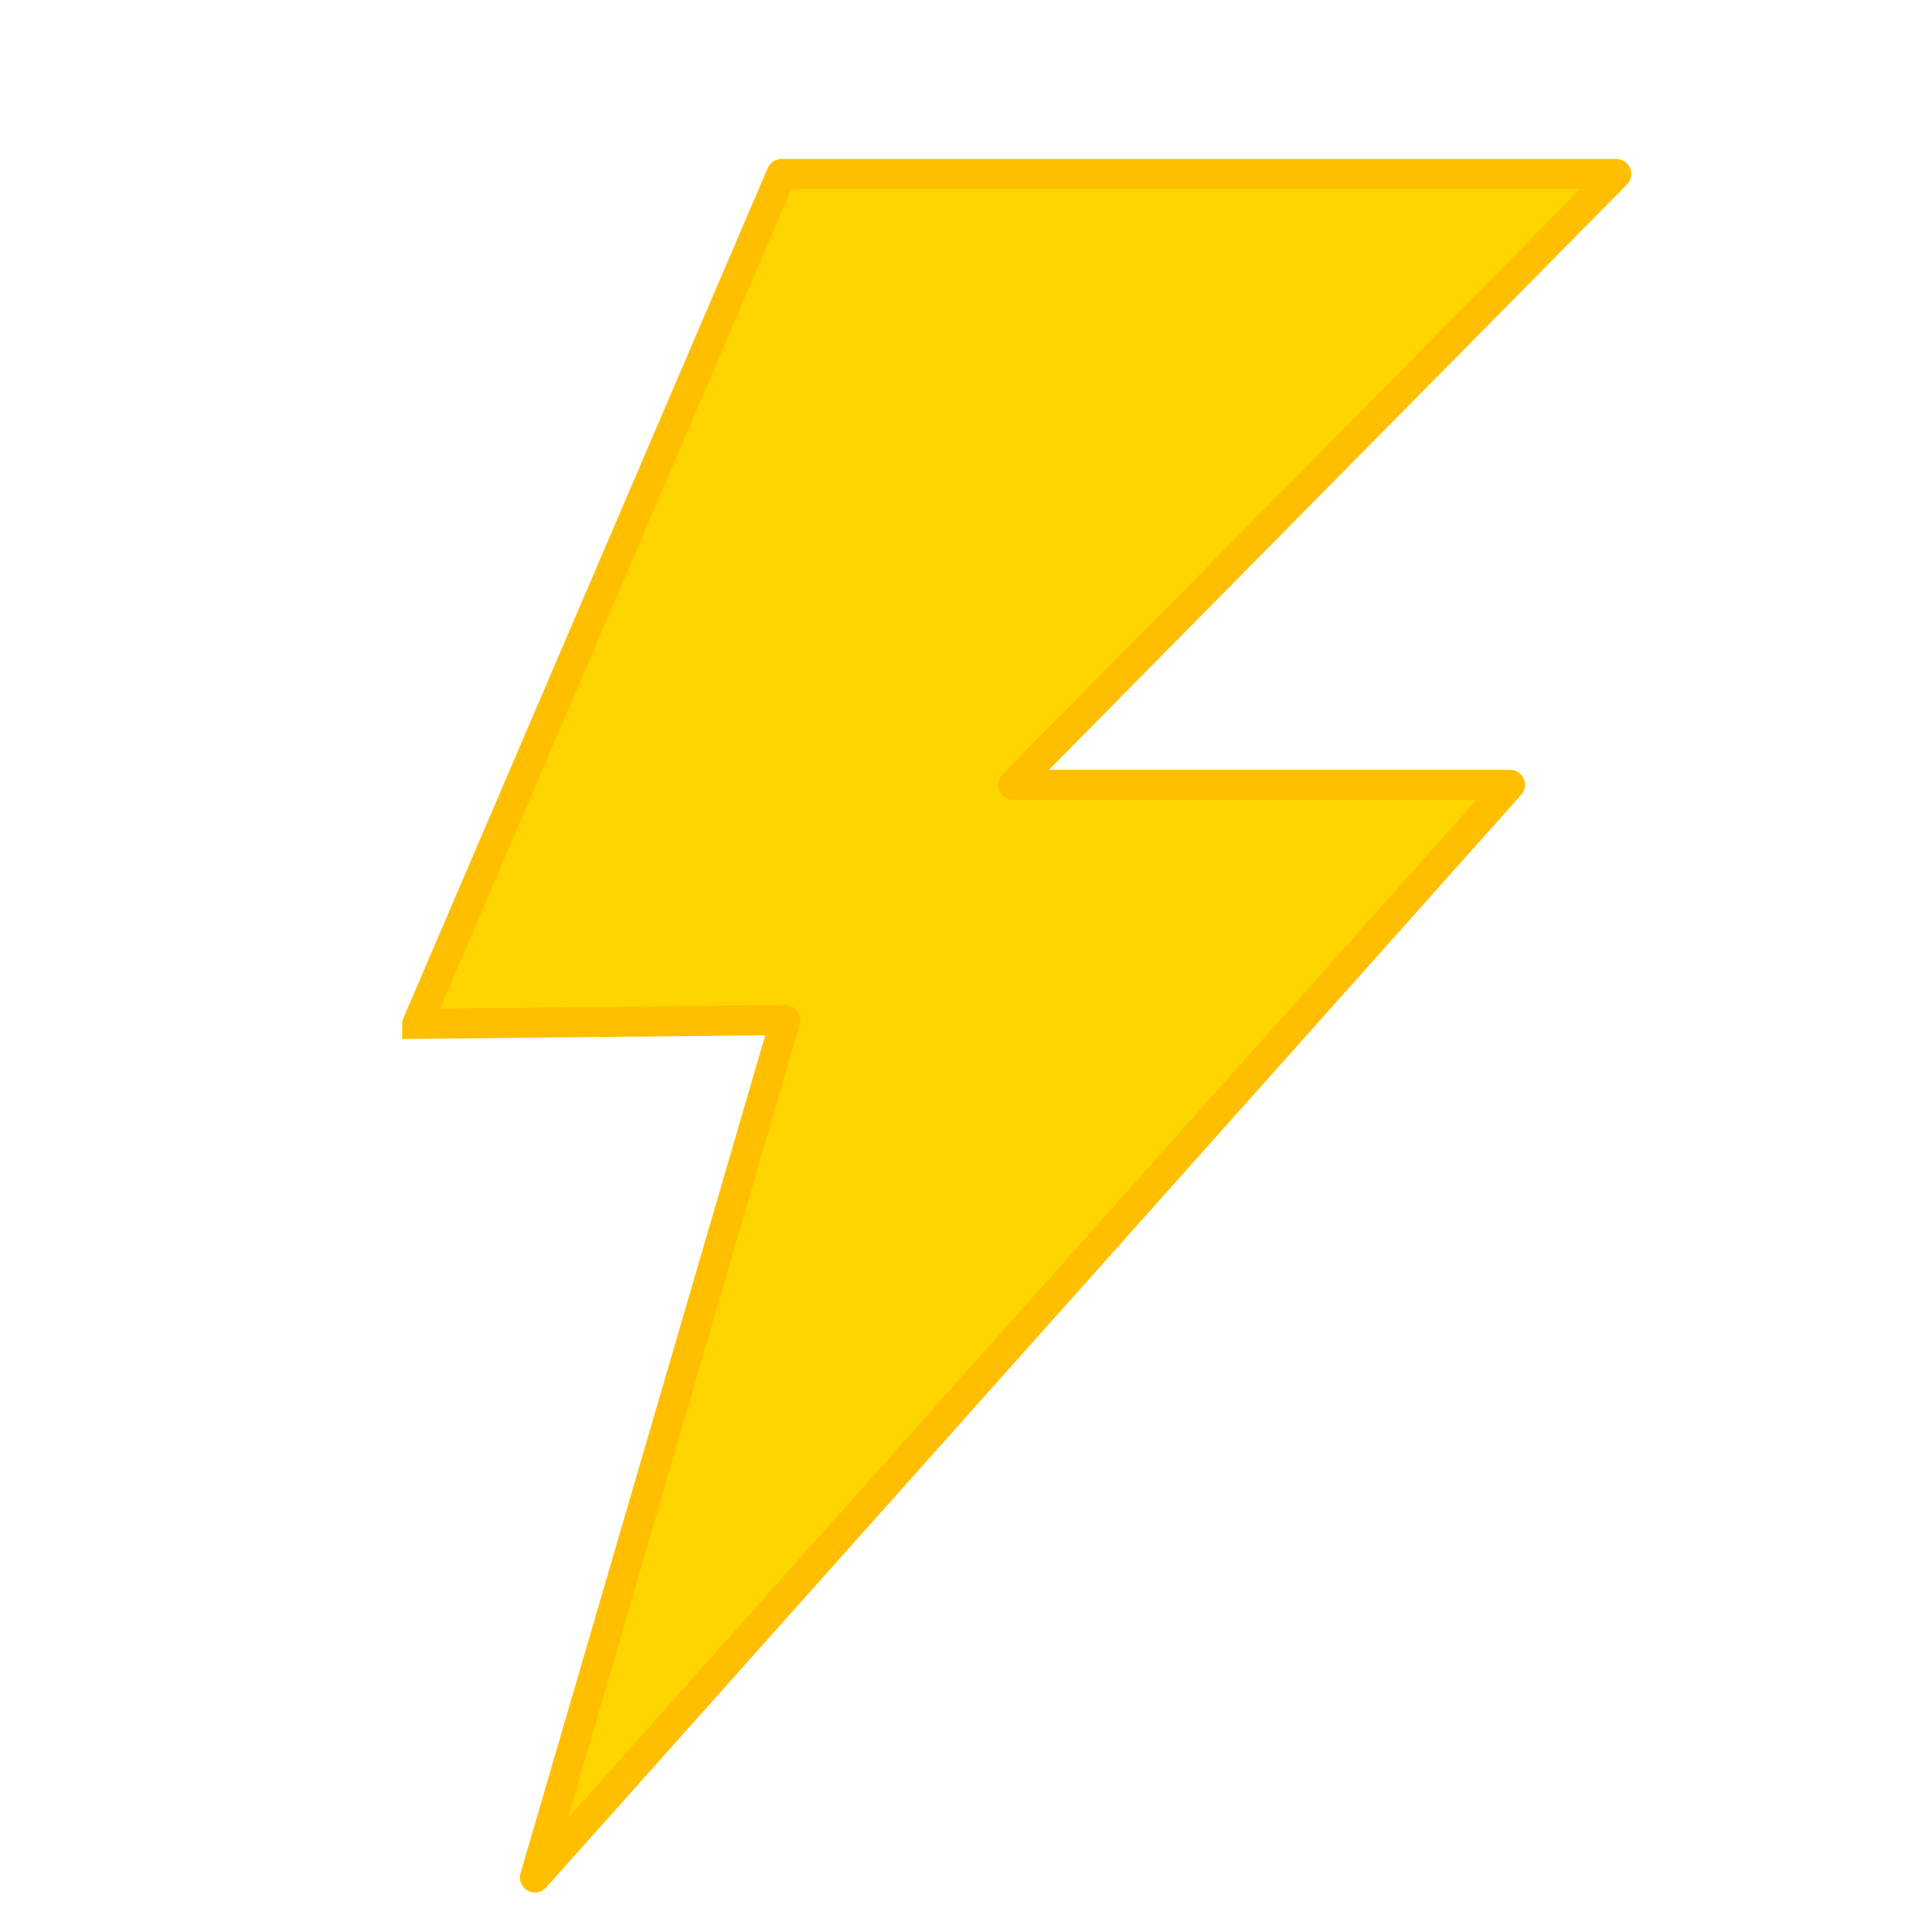
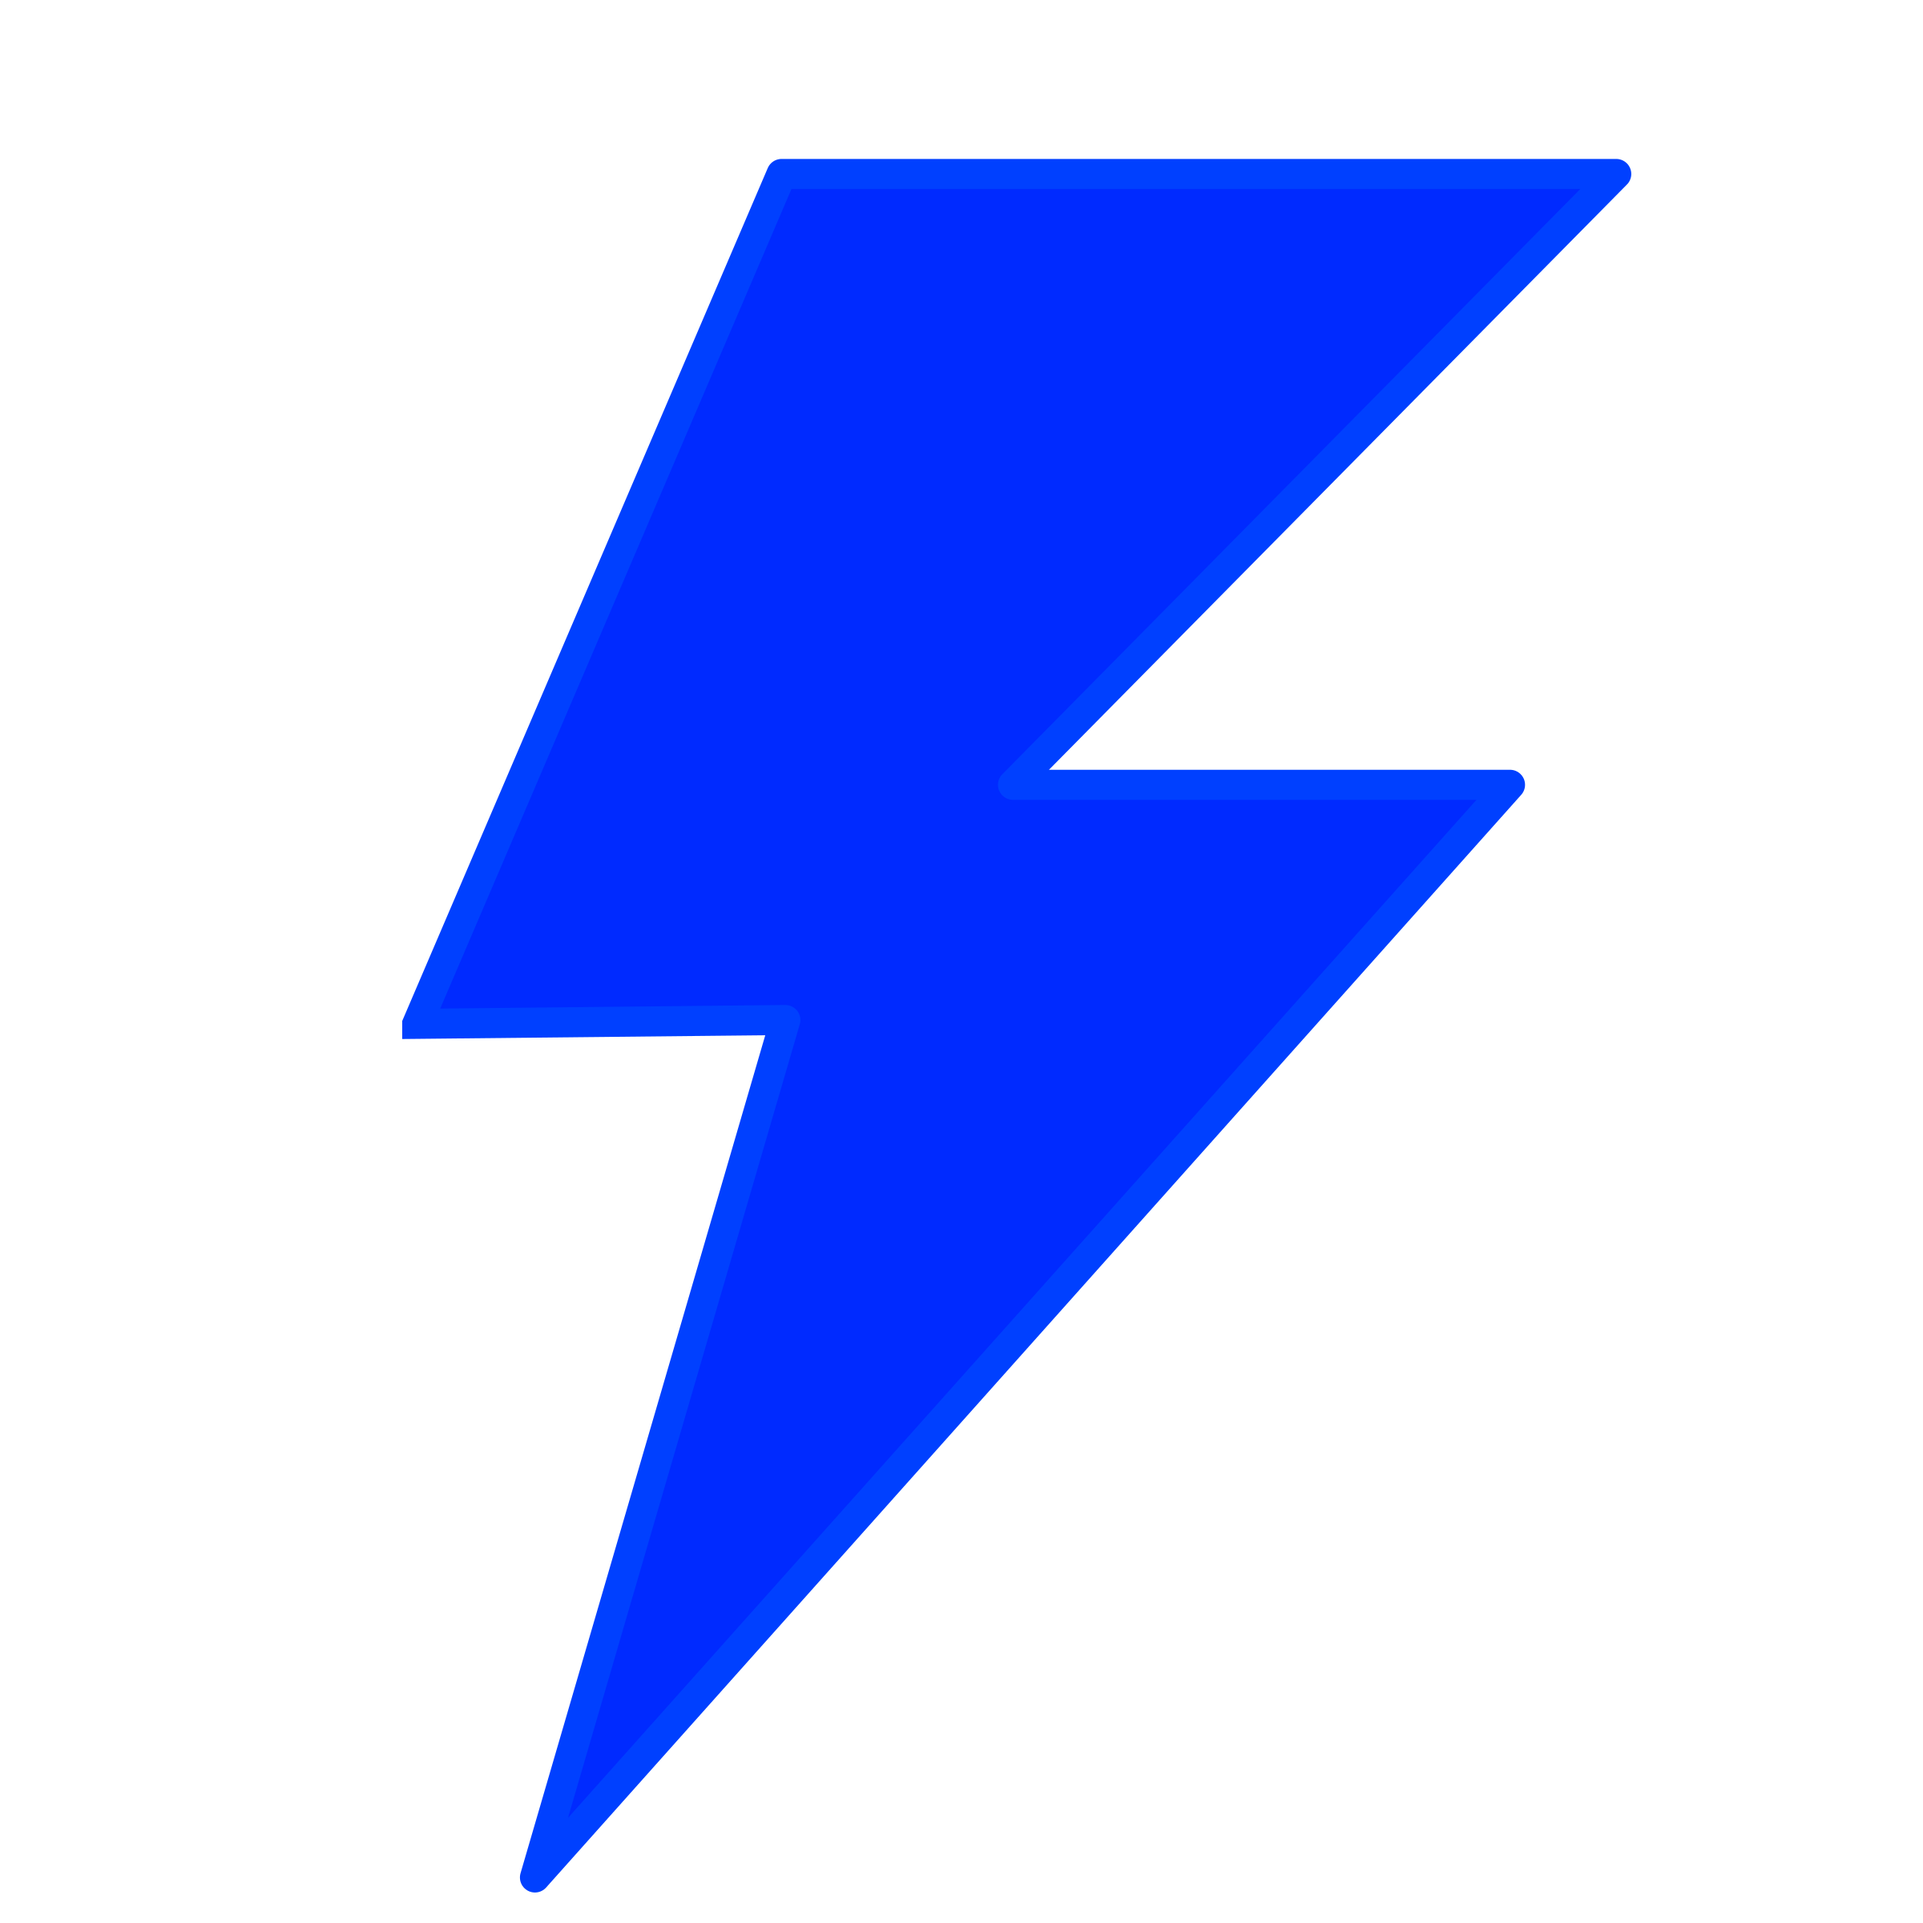
Bug and texture fixes
-Changed lightning particle texture to improve clarity (yellow to blue)
-Fixed manager Script to handle different sizes of games properly
-Fixed Manager script to not spawn end game screen infinitely

Changed region(s): [[0.1875, 0.0625, 0.8438, 1.0]]

diff --git a/BeanoProject/Assets/GameOverCanvasScript.cs b/BeanoProject/Assets/GameOverCanvasScript.cs
@@ -9,15 +9,23 @@ using UnityEngine;
 //the end game screen
 public class GameOverCanvasScript : MonoBehaviour {
 
+	//portraits in game with the game's score in it
 	public GameObject[] portraits;
-	public Vector3[] positions;
 
+	//positions of the portraits that are spawned on the canvas
+	private List<Vector3> positions = new List<Vector3>();
 
 	// Use this for initialization
 	void Start () {
 
 		//find all the objects in the scene with the tag portriats
 		portraits = GameObject.FindGameObjectsWithTag ("Portrait");
+
+
+		for (int i = 0; i < portraits.Length; i++) {
+			positions.Add (new Vector3 (0, 0, 0));
+		}
+
 
 		SetUpPortraitPositions ();
 		ReparentPortraits ();
@@ -33,9 +41,12 @@ public class GameOverCanvasScript : MonoBehaviour {
 			break;
 		case 1:
 			//one player
+			positions [0] = new Vector3 (0, 0, 0);
 			break;
 		case 2:
 			//two players
+			positions [0] = new Vector3 (-400, 0, 0);
+			positions [1] = new Vector3 (400, 0, 0);
 			break;
 		case 3:
 			//three players
@@ -45,6 +56,10 @@ public class GameOverCanvasScript : MonoBehaviour {
 			break;
 		case 4:
 			//four players
+			positions [0] = new Vector3 (-600, 0, 0);
+			positions [1] = new Vector3 (0, -200, 0);
+			positions [2] = new Vector3 (0, 200, 0);
+			positions [3] = new Vector3 (600, 0, 0);
 			break;
 		default:
 			//Incase all else fails
@@ -63,33 +78,5 @@ public class GameOverCanvasScript : MonoBehaviour {
 			portraits [i].transform.SetParent (this.transform);
 			portraits[i].transform.localPosition = positions[i];
 		}
-	}
-
-	////instantiates all the end game portraits
-	//void InstantiateEndGamePortraits()
-	//{
-	//	//for each portrait in the game being used (for each player)
-	//	for (int i = 0; i < portraits.Length; i++) {
-	//		
-	//		//instantiate a new prefab
-	//		GameObject portraitTemp = Instantiate (Resources.Load ("Minigames/PlantMinigame/Prefabs/PlayerPortait"), new Vector3(0,0,0), Quaternion.identity) as GameObject;
-	//		portraitTemp.transform.SetParent (this.transform);
-	//		portraitTemp.transform.localPosition = positions[i];
-	//
-	//
-	//		//Destroy default portrait script
-	//		//Destroy(portraitTemp.GetComponent<PortaitScript> ());
-	//		//portraitTemp.GetComponent<PortaitScript>().(portraitScripts[i];
-	//		//give the new prefab the existing player portrait script
-	//		//portraitTemp.AddComponent(portraitScripts [i]);
-	//
-	//	}
-	//
-	//}
-
-
-	// Update is called once per frame
-	void Update () {
-		
 	}
 }

diff --git a/BeanoProject/Assets/Resources/Minigames/PlantMinigame/Scripts/ManagersAndRenderers/ManagerScript.cs b/BeanoProject/Assets/Resources/Minigames/PlantMinigame/Scripts/ManagersAndRenderers/ManagerScript.cs
@@ -303,14 +303,12 @@ public class ManagerScript : MonoBehaviour {
 			break;
 		//game is counting score and return to overworld
 		case GameState.counting:
-			
-			if (!GameOverCanvas) {
-				Instantiate (Resources.Load ("Minigames/PlantMinigame/Prefabs/GameOverCanvas"));
+			//if the game over canvas has not been instantiated yet 
+			if (GameOverCanvas == null) {
+				//Instantiate the game over canvas
+				GameOverCanvas = Instantiate (Resources.Load ("Minigames/PlantMinigame/Prefabs/GameOverCanvas")) as GameObject;
 			}
-			//GameObject.Find ("MinigameCanvas").SetActive (false);
-			//GameScript.local.EndMiniGame ();
-			//count the score
-			//return to overworld option
+
 			break;
 		}
 	}
